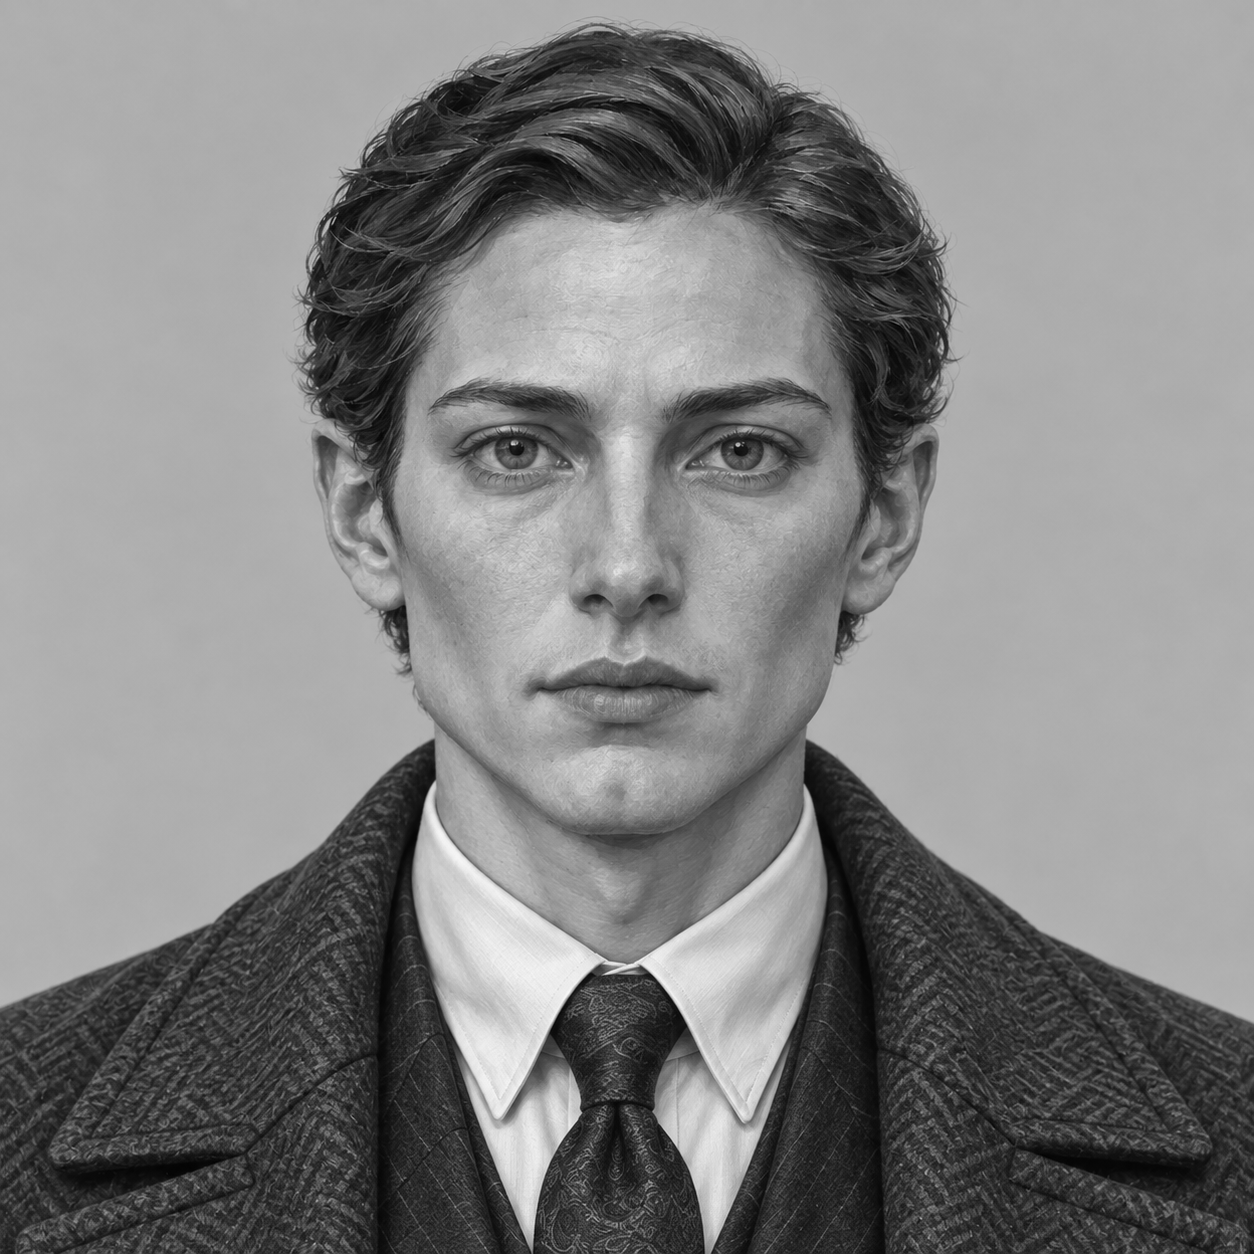
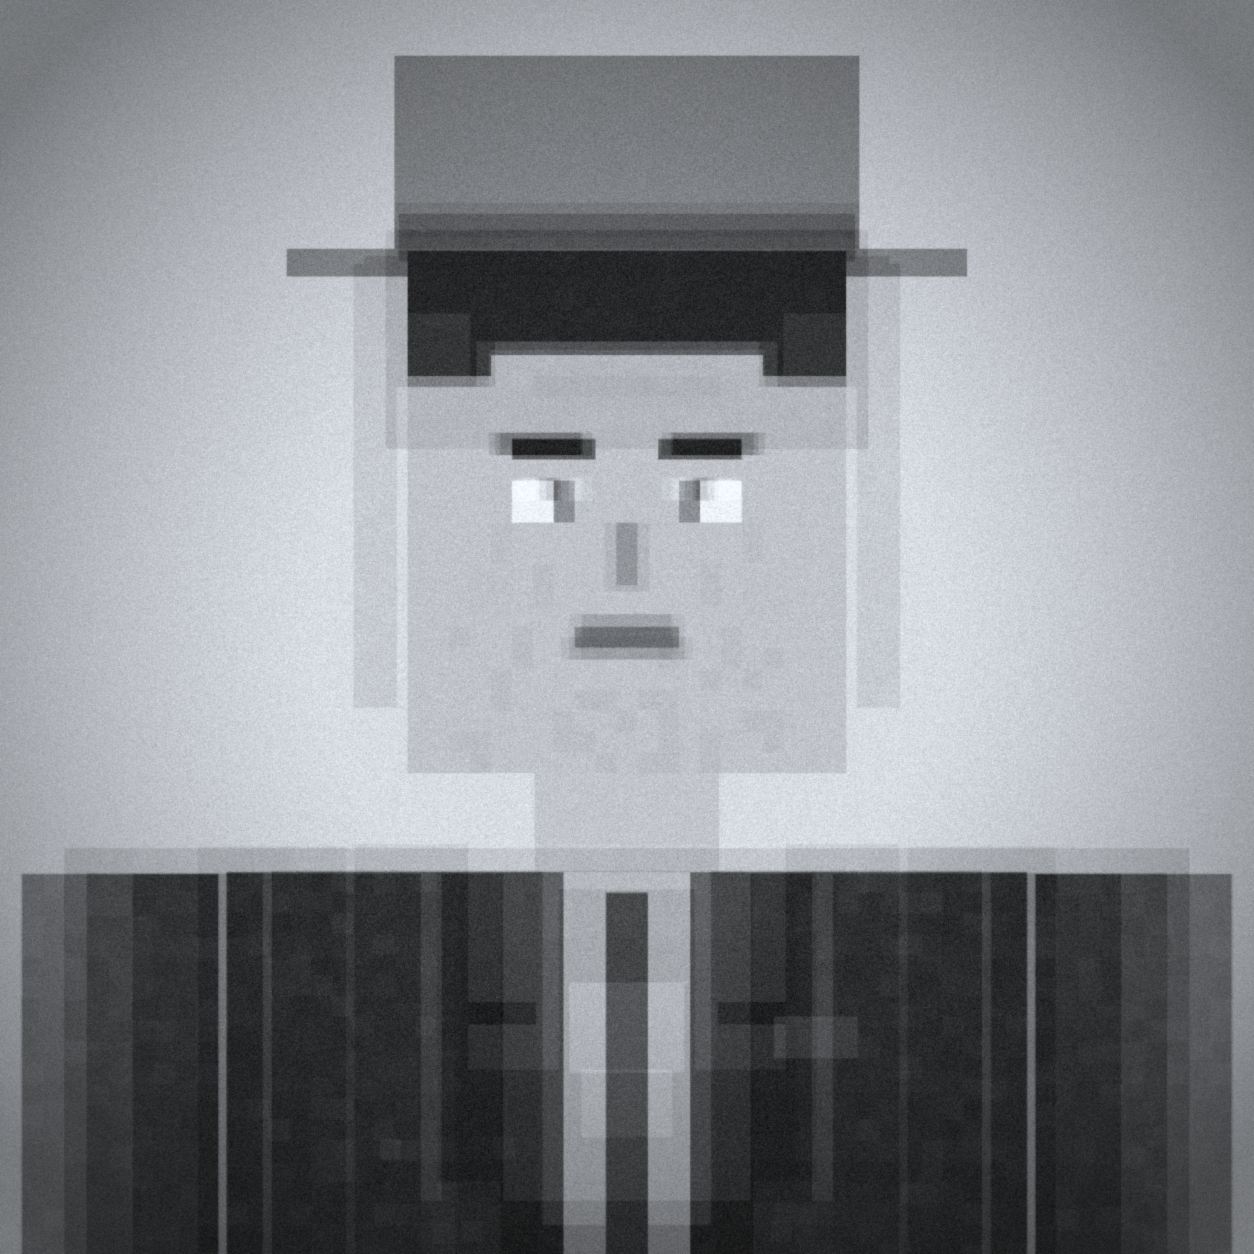
第 6 章叠印改为方盒子版
人物改为方盒子后，拟真叠印风格不再匹配。六张去遮眼物、同一套五官的
肖像按头高对齐叠加（格雷占 40%），脸清晰、帽子与发型留下长曝光重影。

diff --git a/tools/art/composite_blocky.py b/tools/art/composite_blocky.py
@@ -1,0 +1,54 @@
+#!/usr/bin/env python3
+"""第 6 章叠印（方盒子版，10-17）：六张方盒子肖像叠成一张清晰的格雷。
+
+输入：assets/2d/T-024-人物三视图/composite-blocky/portraits/<英文名>.png（build_portraits.py 渲染，五官已对齐）
+输出：
+  godot/art/footage/composite.png                          游戏里 develop(composite.png) 显影的那张
+  assets/2d/T-024-人物三视图/composite-blocky/composite.png  同一张，存档
+  assets/2d/T-024-人物三视图/composite-blocky/review.png     六张原图 + 叠印的并排检查图
+
+做法：加权平均（格雷 40%，其余五人各 12%），五官位置相同所以脸是清晰的，帽子、发型、衣领留下重影，
+像一张长曝光照片；再转成冷调黑白、加颗粒与暗角。
+"""
+from pathlib import Path
+
+import numpy as np
+from PIL import Image, ImageFilter
+
+ROOT = Path(__file__).resolve().parents[2]
+SRC = ROOT / "assets/2d/T-024-人物三视图/composite-blocky"
+ORDER = ["grey", "ambrose", "constance", "gideon", "latente", "iris"]
+WEIGHT = {"grey": 0.40}
+OTHER = (1 - WEIGHT["grey"]) / (len(ORDER) - 1)
+
+
+def main():
+    imgs = {k: np.asarray(Image.open(SRC / "portraits" / f"{k}.png").convert("RGB"), dtype=np.float32) / 255 for k in ORDER}
+    acc = sum(imgs[k] * WEIGHT.get(k, OTHER) for k in ORDER)
+    # 黑白：带一点冷调（显影纸）
+    lum = acc @ np.array([0.3, 0.59, 0.11], dtype=np.float32)
+    lum = np.clip((lum - 0.5) * 1.25 + 0.5, 0, 1)  # 提高对比
+    h, w = lum.shape
+    rng = np.random.default_rng(1926)
+    lum = np.clip(lum + rng.normal(0, 0.035, lum.shape), 0, 1)  # 颗粒
+    yy, xx = np.mgrid[0:h, 0:w]
+    r = np.sqrt(((xx - w / 2) / (w / 2)) ** 2 + ((yy - h / 2) / (h / 2)) ** 2)
+    lum = lum * np.clip(1.08 - 0.32 * r ** 2, 0.55, 1)  # 暗角
+    rgb = np.stack([lum * 0.97, lum * 0.99, lum * 1.02], axis=-1)
+    out = Image.fromarray((np.clip(rgb, 0, 1) * 255).astype(np.uint8))
+    out = out.filter(ImageFilter.GaussianBlur(0.6))
+    out.save(SRC / "composite.png")
+    out.save(ROOT / "godot/art/footage/composite.png")
+
+    # 并排检查图：六张原图在上，叠印在下
+    t = 300
+    sheet = Image.new("RGB", (t * 6, t + t * 2), (40, 40, 40))
+    for i, k in enumerate(ORDER):
+        sheet.paste(Image.open(SRC / "portraits" / f"{k}.png").convert("RGB").resize((t, t)), (i * t, 0))
+    sheet.paste(out.resize((t * 2, t * 2)), (t * 2, t))
+    sheet.save(SRC / "review.png")
+    print("composite ->", ROOT / "godot/art/footage/composite.png")
+
+
+if __name__ == "__main__":
+    main()

diff --git a/assets/3d/T-025-人物模型/scripts/build_portraits.py b/assets/3d/T-025-人物模型/scripts/build_portraits.py
@@ -1,0 +1,59 @@
+"""第 6 章叠印用的方盒子肖像（10-17）。
+
+六人去掉遮眼物、画上同一套五官位置，正面正交渲染头肩，按各自头高缩放，使五官落在同一位置。
+合成（叠印、做旧）由 tools/art/composite_blocky.py 完成。
+
+运行（无界面，不碰工作文件）：
+  /Applications/Blender.app/Contents/MacOS/Blender -b --factory-startup --python assets/3d/T-025-人物模型/scripts/build_portraits.py
+输出：assets/2d/T-024-人物三视图/composite-blocky/portraits/<英文名>.png（1254×1254）
+"""
+import importlib.util
+import math
+import os
+
+import bpy
+
+HERE = os.path.dirname(os.path.abspath(__file__))
+spec = importlib.util.spec_from_file_location("build_blocky", os.path.join(HERE, "build_blocky.py"))
+bb = importlib.util.module_from_spec(spec)
+spec.loader.exec_module(bb)  # 模块名不是 __main__，不会触发建模主流程
+bb.PORTRAIT = True
+
+OUT = os.path.join(bb.ROOT, "assets", "2d", "T-024-人物三视图", "composite-blocky", "portraits")
+os.makedirs(OUT, exist_ok=True)
+
+for o in list(bpy.data.objects):
+    bpy.data.objects.remove(o, do_unlink=True)
+sc = bpy.context.scene
+if not sc.world:
+    sc.world = bpy.data.worlds.new("World")
+sc.render.engine = "BLENDER_WORKBENCH"
+sc.display.shading.light = "FLAT"
+sc.display.shading.color_type = "TEXTURE"
+sc.display.shading.background_type = "VIEWPORT"
+sc.display.shading.background_color = (0.62, 0.6, 0.56)
+sc.view_settings.view_transform = "Standard"
+sc.render.resolution_x = sc.render.resolution_y = 1254
+cam_data = bpy.data.cameras.new("portrait_cam")
+cam_data.type = "ORTHO"
+cam = bpy.data.objects.new("portrait_cam", cam_data)
+sc.collection.objects.link(cam)
+sc.camera = cam
+
+built = []
+for i, fn in enumerate(bb.CHARACTERS):
+    key, arm, mesh_obj, p, d, boxes = bb.build_character(fn, i * 2.0)
+    built.append((key, arm, mesh_obj))
+
+for key, arm, mesh_obj in built:
+    for k2, a2, m2 in built:
+        m2.hide_render = k2 != key
+    hc, hh = arm["dm_head_center"], arm["dm_head_h"]
+    # 以眼睛高度为中心（头高的 53% 处），画幅 = 2.4 个头高
+    eye_z = hc - hh / 2 + hh * 0.53
+    cam.location = (arm.location.x, -5, eye_z - hh * 0.25)
+    cam.rotation_euler = (math.radians(90), 0, 0)
+    cam_data.ortho_scale = hh * 2.4
+    sc.render.filepath = os.path.join(OUT, key + ".png")
+    bpy.ops.render.render(write_still=True)
+    print("PORTRAIT", key, sc.render.filepath)

diff --git a/assets/2d/T-024-人物三视图/composite-blocky/README.md b/assets/2d/T-024-人物三视图/composite-blocky/README.md
@@ -1,0 +1,9 @@
+# 第 6 章叠印 · 方盒子版（10-17）
+
+人物改为方盒子风格后，叠印也随之改做。取代 `../composite-v1/`（拟真肖像版，保留作历史）。
+
+- `portraits/<英文名>.png`：`assets/3d/T-025-人物模型/scripts/build_portraits.py` 渲染。肖像模式去掉缎带、帽檐、面纱、布条与格雷的脸部暗影，六人画上同一套五官位置（对应设定里的“同一张底脸”），按各自头高缩放，所以五官完全重合。
+- `composite.png`：`tools/art/composite_blocky.py` 加权叠加（格雷 40%，其余各 12%），黑白冷调、颗粒、暗角。脸是清晰的格雷，帽子、发型、衣领留下重影。同一张交到 `godot/art/footage/composite.png`，第 6 章 `develop(composite.png)` 显影。
+- `review.png`：六张原图与叠印并排。
+
+重做：先跑 `build_portraits.py`，再跑 `python3 tools/art/composite_blocky.py`。
